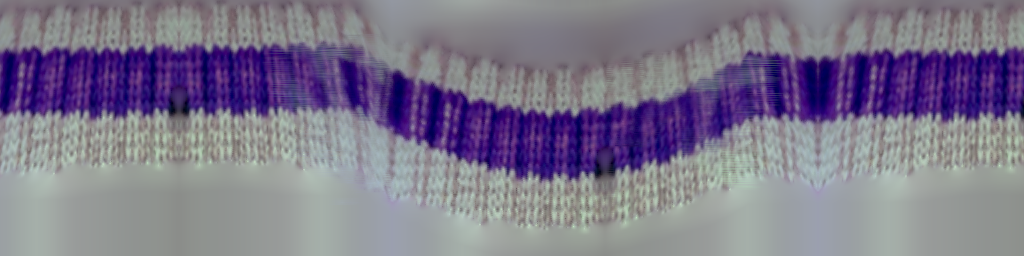
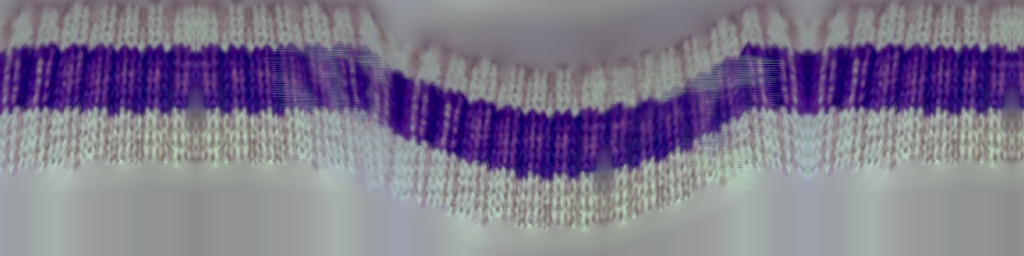
autosave: Rainbow 2026-11-17 01:25 UTC
Automated Rainbow backup (hook:Stop). 15 file(s) changed.
Transcripts: refreshed (repo verified private)

Claude-Session: https://claude.ai/code/session_01Q46SCHg5514fc1pQPNRkw4

diff --git a/qa/pilot05/full_reference_match/benny/work/bake.py b/qa/pilot05/full_reference_match/benny/work/bake.py
@@ -204,7 +204,7 @@ def main():
         # treated as unseen and filled from their neighbours, so the fur never carries grey-green blotches in motion
         R_, G_, B_ = alb[..., 0], alb[..., 1], alb[..., 2]
         fam = {'body': (G_ < 0.62 * R_) & (R_ > 0.12), 'pom': (G_ < 0.55 * B_) & (B_ > 0.08),
-               'cuff': (G_ < 0.6 * B_), 'crown': np.ones_like(seen)}[key]
+               'cuff': (G_ < 0.6 * B_), 'crown': alb.max(-1) > 0.1}[key]
         rejected = int((seen & ~fam).sum())
         seen &= fam
         alb = np.where(seen[..., None], alb, 0)

diff --git a/backups/claude-sessions/4504d324-f312-5957-a7e6-3580c7fc5f29/subagents/agent-a9780416a29e85217.md b/backups/claude-sessions/4504d324-f312-5957-a7e6-3580c7fc5f29/subagents/agent-a9780416a29e85217.md
@@ -948,3 +948,35 @@ Running the id probe for the new geometry (tag e3).
 
 > 🔧 **Bash** `{"command": "cd /home/user/rainbow-; S=/tmp/claude-0/-home-user-rainbow-/4504d324-f312-5957-a7e6-3580c7fc5f29/scratchpad; STACK='proj05=1&projwall05=1&projring05=1&projframe05=1&projlid05=1&projflow05=2&projnear05=1&projfar05=1'; mkdir -p $S/raw_stack $S/stackprobe; timeout 1500 node scripts/proj05-tunnel-probe.mjs --q=\"$STACK\" --out=$S/stackprobe --raw=$S/raw_stack 2>&1 | tail -1 | cut -c1-80; python3 -I tools/env05/idviz.py $S/raw_stack/tunnel_id.f32 $S/stackprobe/idviz.png 0.35", "description": "Probe STACK without env05 for silhouette comparison", "timeout": 1600000}`
 
+### 🧑 User — 2026-11-17T01:25:05.727Z
+
+> ↩ result: probed {"wall":2,"ring":1,"farWall":1,"farRing":1,"farLid":1} tunnel {"sCam05":1
+> approved region                   px  same kind  | game shows:   other     wall  farwall     ring  farring      lid   farlid
+> purple_walls                  312706     0.636   |               24271   153207    45540    76719    12969        0        0
+> gold_rings_and_front_frame    125730     0.198   |               75477    23399     1938    21953     2963        0        0
+> distant_tunnel_and_glow         6513     0.904   |                 628        0     3812        0     2073        0        0
+> side_fittings                  13776     0.000   |                7158     1483      460     4189      486        0        0
+> walls + gold + distant: same kind 0.5159
+>    game tunnel surface over approved water         : wall   2946  ring   2779  (of 480736)
+>    game tunnel surface over approved foam_banks    : wall    788  ring    919  (of 28862)
+>    game tunnel surface over approved bubbles       : wall   4740  ring   3858  (of 29304)
+>    game tunnel surface over approved wake_splash   : wall      0  ring      0  (of 83491)
+>    game tunnel surface over approved coins         : wall    786  ring    317  (of 27437)
+>    …[+87 chars]
+
+### 🤖 Claude — 2026-11-17T01:25:10.375Z
+
+> 🔧 **Bash** `{"command": "cd /home/user/rainbow-; S=/tmp/claude-0/-home-user-rainbow-/4504d324-f312-5957-a7e6-3580c7fc5f29/scratchpad; python3 -I -c \"\nfrom PIL import Image\na=Image.open('qa/pilot05/full_reference_match/env/work/e3/idviz.png').crop((0,0,864,800))\na.save('$S/e3_idviz_top.png')\n\"", "description": "Crop the top of the e3 silhouette visualization"}`
+
+### 🧑 User — 2026-11-17T01:25:10.733Z
+
+> ↩ result: (Bash completed with no output)
+
+### 🤖 Claude — 2026-11-17T01:25:11.612Z
+
+> 🔧 **Read** `{"file_path": "/tmp/claude-0/-home-user-rainbow-/4504d324-f312-5957-a7e6-3580c7fc5f29/scratchpad/e3_idviz_top.png"}`
+
+### 🧑 User — 2026-11-17T01:25:11.648Z
+
+> ↩ result: [image]
+

diff --git a/backups/CONVERSATION_INDEX.md b/backups/CONVERSATION_INDEX.md
@@ -31,7 +31,7 @@ Search tip: `grep -ril "07" backups/claude-sessions/*/transcript.md`
 | `b6a25bd2-ebea-59a3-94ed-b3db294c31e7` | Matching approved screen design | `claude/approved-screen-implementation-g3loqu` | 2026-11-16T23:24:17.915Z | 2026-11-16T23:42:47.639Z | 6 | 119 | 3 | benny, girl, water, 07, 08, plunge, autosave, backup, android, playwright, blender, meshy, screens, towel, hud, coin, shader, agents | [md](claude-sessions/b6a25bd2-ebea-59a3-94ed-b3db294c31e7/transcript.md) · [jsonl](claude-sessions/b6a25bd2-ebea-59a3-94ed-b3db294c31e7/transcript.sanitized.jsonl) |
 | `a8bc3320-c4fc-501b-8658-2d5f41052d69` | Rainbow account recovery and Screen 05 | `ccr-694bda6a-x58ntq` | 2026-11-16T23:51:33.025Z | 2026-11-17T00:36:06.405Z | 9 | 453 | 3 | benny, girl, water, 07, 08, plunge, autosave, backup, android, playwright, blender, meshy, screens, towel, hud, coin, shader, agents | [md](claude-sessions/a8bc3320-c4fc-501b-8658-2d5f41052d69/transcript.md) · [jsonl](claude-sessions/a8bc3320-c4fc-501b-8658-2d5f41052d69/transcript.sanitized.jsonl) |
 | `c85b9efb-7963-5a97-9c4e-da811e450f6b` | Rainbow game restoration and Screen 05 | `claude/rainbow-restore-env-setup-bxn85h` | 2026-11-17T00:39:55.323Z | 2026-11-17T00:54:52.887Z | 3 | 115 | 3 | benny, girl, water, 07, 08, plunge, autosave, backup, android, playwright, blender, meshy, screens, towel, hud, coin, shader, agents | [md](claude-sessions/c85b9efb-7963-5a97-9c4e-da811e450f6b/transcript.md) · [jsonl](claude-sessions/c85b9efb-7963-5a97-9c4e-da811e450f6b/transcript.sanitized.jsonl) |
-| `4504d324-f312-5957-a7e6-3580c7fc5f29` | Rainbow game account transfer restore | `claude/rainbow-account-transfer-npxahd` | 2026-11-17T01:10:35.307Z | 2026-11-17T01:24:42.043Z | 5 | 177 | 3 | benny, girl, water, 07, 08, autosave, backup, android, playwright, blender, meshy, screens, towel, hud, coin, shader, agents | [md](claude-sessions/4504d324-f312-5957-a7e6-3580c7fc5f29/transcript.md) · [jsonl](claude-sessions/4504d324-f312-5957-a7e6-3580c7fc5f29/transcript.sanitized.jsonl) |
+| `4504d324-f312-5957-a7e6-3580c7fc5f29` | Rainbow game account transfer restore | `claude/rainbow-account-transfer-npxahd` | 2026-11-17T01:10:35.307Z | 2026-11-17T01:25:13.172Z | 5 | 178 | 3 | benny, girl, water, 07, 08, autosave, backup, android, playwright, blender, meshy, screens, towel, hud, coin, shader, agents | [md](claude-sessions/4504d324-f312-5957-a7e6-3580c7fc5f29/transcript.md) · [jsonl](claude-sessions/4504d324-f312-5957-a7e6-3580c7fc5f29/transcript.sanitized.jsonl) |
 
 ## Restore / resume
 

diff --git a/backups/claude-sessions/4504d324-f312-5957-a7e6-3580c7fc5f29/transcript.md b/backups/claude-sessions/4504d324-f312-5957-a7e6-3580c7fc5f29/transcript.md
@@ -1882,3 +1882,17 @@ Stop hook feedback:
 
 > 🔧 **Bash** `{"command": "sleep 20; flock -w 180 backups/.autosave.lock true; python3 scripts/rainbow-autosave.py --reason manual:stop-hook 2>&1 | grep -E '\"commit\"|\"pushed_verified\"|\"error\"|skipping'; echo \"uncommitted: $(git status --short | wc -l)\"; echo \"LOCAL  $(git rev-parse HEAD)\"; echo \"REMOTE $(git ls-remote origin refs/heads/claude/rainbow-account-transfer-npxahd | cut -f1)\"", "description": "Save Benny bake output and verify", "timeout": 300000}`
 
+### 🧑 User — 2026-11-17T01:25:10.241Z
+
+> ↩ result: "pushed_verified": true,
+>   "commit": "759198ce6479a0d23b872589abfb4c45190417d6",
+> uncommitted: 0
+> LOCAL  759198ce6479a0d23b872589abfb4c45190417d6
+> REMOTE 759198ce6479a0d23b872589abfb4c45190417d6
+
+### 🤖 Claude — 2026-11-17T01:25:11.710Z
+
+Everything is committed and pushed. GitHub's copy of the branch is now at `759198c`, the same as the local copy, and nothing is left unsaved. That save included the Benny specialist's new texture-bake output (`benny/work/b2/tex/`).
+
+The three specialists are still working and will keep writing new files. The five-minute autosave picks those up continuously, so short periods with unsaved changes between saves are normal.
+

diff --git a/backups/claude-sessions/4504d324-f312-5957-a7e6-3580c7fc5f29/subagents/agent-ae2100bc45217d150.md b/backups/claude-sessions/4504d324-f312-5957-a7e6-3580c7fc5f29/subagents/agent-ae2100bc45217d150.md
@@ -794,3 +794,11 @@ Now the solve targets (approved silhouette centres for coins 1-6, measured centr
 
 > ↩ result: File created successfully at: /home/user/rainbow-/qa/pilot05/full_reference_match/coins/targets_v2.json (file state is current in your context — no need to Read it back)
 
+### 🤖 Claude — 2026-11-17T01:25:06.442Z
+
+> 🔧 **Bash** `{"command": "STACK='proj05=1&projwall05=1&projring05=1&projframe05=1&projlid05=1&projflow05=2&projnear05=1&projfar05=1' && timeout 1500 node qa/pilot05/full_reference_match/hud/probe05.mjs --out=/tmp/claude-0/hc05/r3/solve2 --solve=qa/pilot05/full_reference_match/coins/targets_v2.json s=\"$STACK&coins05=1\" 2>&1 | tail -3", "description": "Solve the coin placements with occlusion-aware far coins", "timeout": 1600000, "run_in_background": true}`
+
+### 🧑 User — 2026-11-17T01:25:06.495Z
+
+> ↩ result: Command running in background with ID: bjs8all79. Output is being written to: /tmp/claude-0/-home-user-rainbow-/4504d324-f312-5957-a7e6-3580c7fc5f29/tasks/bjs8all79.output. You will be notified when it completes. To check interim output, use Read on that file path.
+

diff --git a/backups/claude-sessions/4504d324-f312-5957-a7e6-3580c7fc5f29/subagents/agent-a2ad2cb9dc27b18c1.md b/backups/claude-sessions/4504d324-f312-5957-a7e6-3580c7fc5f29/subagents/agent-a2ad2cb9dc27b18c1.md
@@ -930,3 +930,7 @@ The knit columns (~10 texels per stitch column) and both stripe bands come throu
 > 218	  body.add(bodyMesh);
 > 219
 
+### 🤖 Claude — 2026-11-17T01:25:10.211Z
+
+> 🔧 **Bash** `{"command": "cd /home/user/rainbow-; W=qa/pilot05/full_reference_match/benny/work; python3 - <<'EOF'\np='qa/pilot05/full_reference_match/benny/work/bake.py'\ns=open(p).read()\nold=\"'cuff': (G_ < 0.6 * B_), 'crown': np.ones_like(seen)}[key]\"\nnew=\"'cuff': (G_ < 0.6 * B_), 'crown': alb.max(-1) > 0.1}[key]\"\nassert s.count(old)==1; s=s.replace(old,new); open(p,'w').write(s)\nEOF\nrm -rf $W/b2/tex; timeout 900 python3 $W/bake.py $W/b1,$W/b2 $W/b2/tex --normals > $W/b2/bake.log 2>&1; echo rc=$?; python3 -I -c \"\nimport json; d=json.load(open('$W/b2/tex/bake_report.json')); print(d['crown'])\"; …[+119 chars]`
+

diff --git a/backups/BACKUP_LOG.md b/backups/BACKUP_LOG.md
@@ -480,3 +480,4 @@ error: failed to push some refs to 'https://github.com/josiahscalia5-dev/rainbow
 | 2026-11-17T01:22:09+00:00 | hook:Stop | committed+pushed | `a20c1e018812` | `claude/rainbow-account-transfer-npxahd` | 6 | True |  |
 | 2026-11-17T01:24:19+00:00 | hook:Stop | committed+pushed | `da61e548da18` | `claude/rainbow-account-transfer-npxahd` | 36 | True |  |
 | 2026-11-17T01:24:29+00:00 | manual:stop-hook | committed+pushed | `e29795340ac0` | `claude/rainbow-account-transfer-npxahd` | 26 | True |  |
+| 2026-11-17T01:25:02+00:00 | manual:stop-hook | committed+pushed | `759198ce6479` | `claude/rainbow-account-transfer-npxahd` | 32 | True |  |
